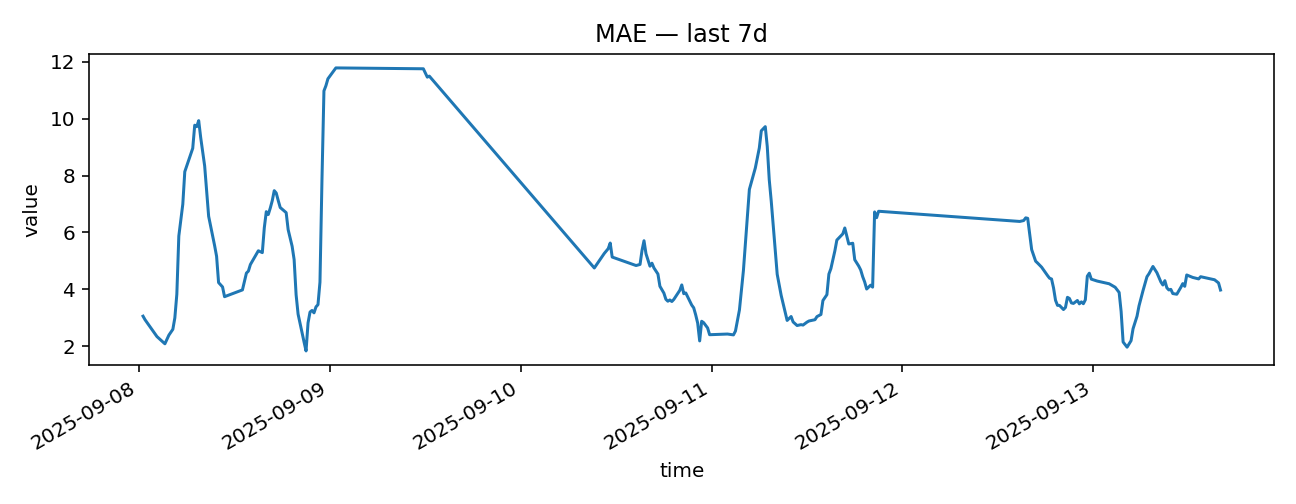
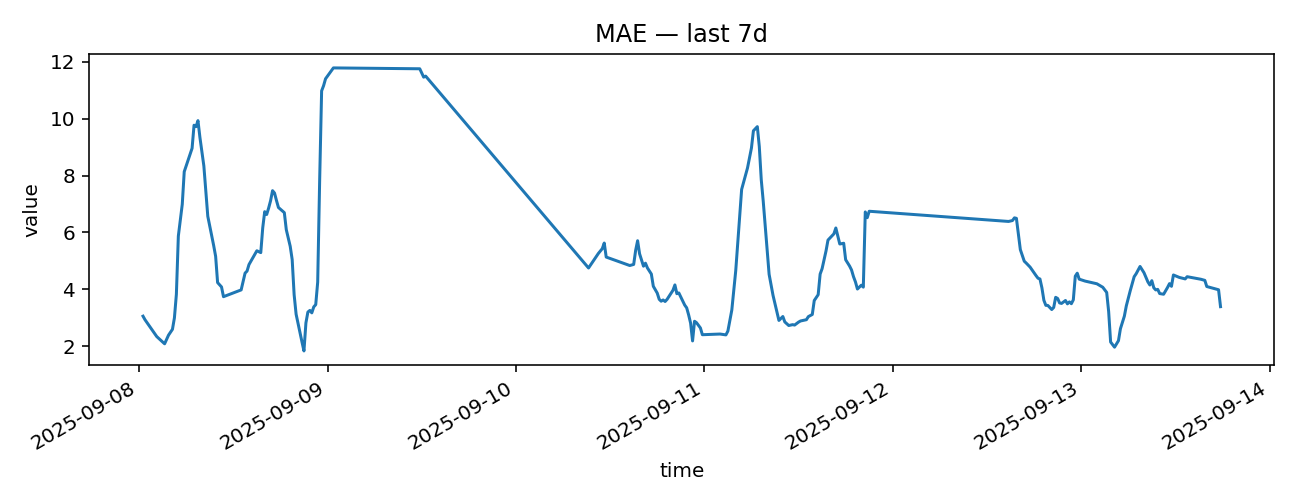
docs(mkdocs): monitoring site + auto-retrain; ci(site.yml); metrics gen

diff --git a/tools/check_retrain.py b/tools/check_retrain.py
@@ -1,0 +1,67 @@
+# tools/check_retrain.py
+from __future__ import annotations
+import json, os
+from pathlib import Path
+
+ROOT = Path(__file__).resolve().parents[1]
+EXPORTS = ROOT / "docs" / "exports"
+METRICS = EXPORTS / "metrics.json"
+BASELINE = EXPORTS / "baseline.json"
+
+# Seuils (surchargables par variables d'env dans Actions)
+THRESH_PSI = float(os.getenv("THRESH_PSI", "0.20"))
+THRESH_MAE_PCT = float(os.getenv("THRESH_MAE_PCT", "1.20"))  # 1.20 = +20%
+
+def _load_json(p: Path) -> dict:
+    if not p.exists():
+        return {}
+    with open(p, "r", encoding="utf-8") as f:
+        return json.load(f)
+
+def main():
+    met = _load_json(METRICS)
+    psi = met.get("psi", {}) or {}
+    metrics = (met.get("metrics") or {})
+    mae_24h = float(metrics.get("mae_24h", "nan"))
+
+    base = _load_json(BASELINE)
+    mae_base = base.get("mae_valid")  # stocké après train
+    need_drift = False
+    need_perf = False
+
+    # Règle 1: PSI
+    if psi:
+        max_psi = max([v for v in psi.values() if isinstance(v, (int,float))], default=0.0)
+        need_drift = (max_psi >= THRESH_PSI)
+    else:
+        max_psi = float("nan")
+
+    # Règle 2: Perf vs baseline (si dispo)
+    if isinstance(mae_base, (int,float)) and isinstance(mae_24h, (int,float)):
+        need_perf = (mae_24h >= mae_base * THRESH_MAE_PCT)
+
+    need_retrain = bool(need_drift or need_perf)
+
+    # Sortie JSON + GitHub Outputs
+    out = {
+        "need_retrain": need_retrain,
+        "reason": {
+            "psi_over": need_drift,
+            "perf_over": need_perf
+        },
+        "max_psi": max_psi,
+        "mae_24h": mae_24h,
+        "mae_baseline": mae_base
+    }
+    print(json.dumps(out, ensure_ascii=False, indent=2))
+
+    gho = os.getenv("GITHUB_OUTPUT")
+    if gho:
+        with open(gho, "a", encoding="utf-8") as f:
+            f.write(f"need_retrain={'true' if need_retrain else 'false'}\n")
+            f.write(f"max_psi={max_psi}\n")
+            f.write(f"mae_24h={mae_24h}\n")
+            f.write(f"mae_baseline={mae_base}\n")
+
+if __name__ == "__main__":
+    main()

diff --git a/docs/monitoring/index.md b/docs/monitoring/index.md
@@ -1,10 +1,10 @@
 # Monitoring — Vue d’ensemble
 
-<span class="metric-badge">MAE 24h: 3.94</span>
-<span class="metric-badge">RMSE 24h: 5.83</span>
-<span class="metric-badge">MAE 7j: 4.87</span>
-<span class="metric-badge">RMSE 7j: 7.15</span>
-<span class="metric-badge">Rel. Err 24h: 0.59</span>
+<span class="metric-badge">MAE 24h: 3.86</span>
+<span class="metric-badge">RMSE 24h: 5.70</span>
+<span class="metric-badge">MAE 7j: 4.86</span>
+<span class="metric-badge">RMSE 7j: 7.14</span>
+<span class="metric-badge">Rel. Err 24h: 0.57</span>
 
 <div class="figure-grid">
   <img src="../assets/figs/mae_24h.png" alt="MAE 24h">

diff --git a/docs/monitoring/metrics.md b/docs/monitoring/metrics.md
@@ -1,9 +1,9 @@
 # Métriques détaillées
 
-- **MAE 24h**: 3.94  
-- **RMSE 24h**: 5.83  
-- **MAE 7j**: 4.87  
-- **RMSE 7j**: 7.15  
+- **MAE 24h**: 3.86  
+- **RMSE 24h**: 5.70  
+- **MAE 7j**: 4.86  
+- **RMSE 7j**: 7.14  
 
 ## Séries temporelles
 ![MAE (full)](../assets/figs/mae_full.png)
